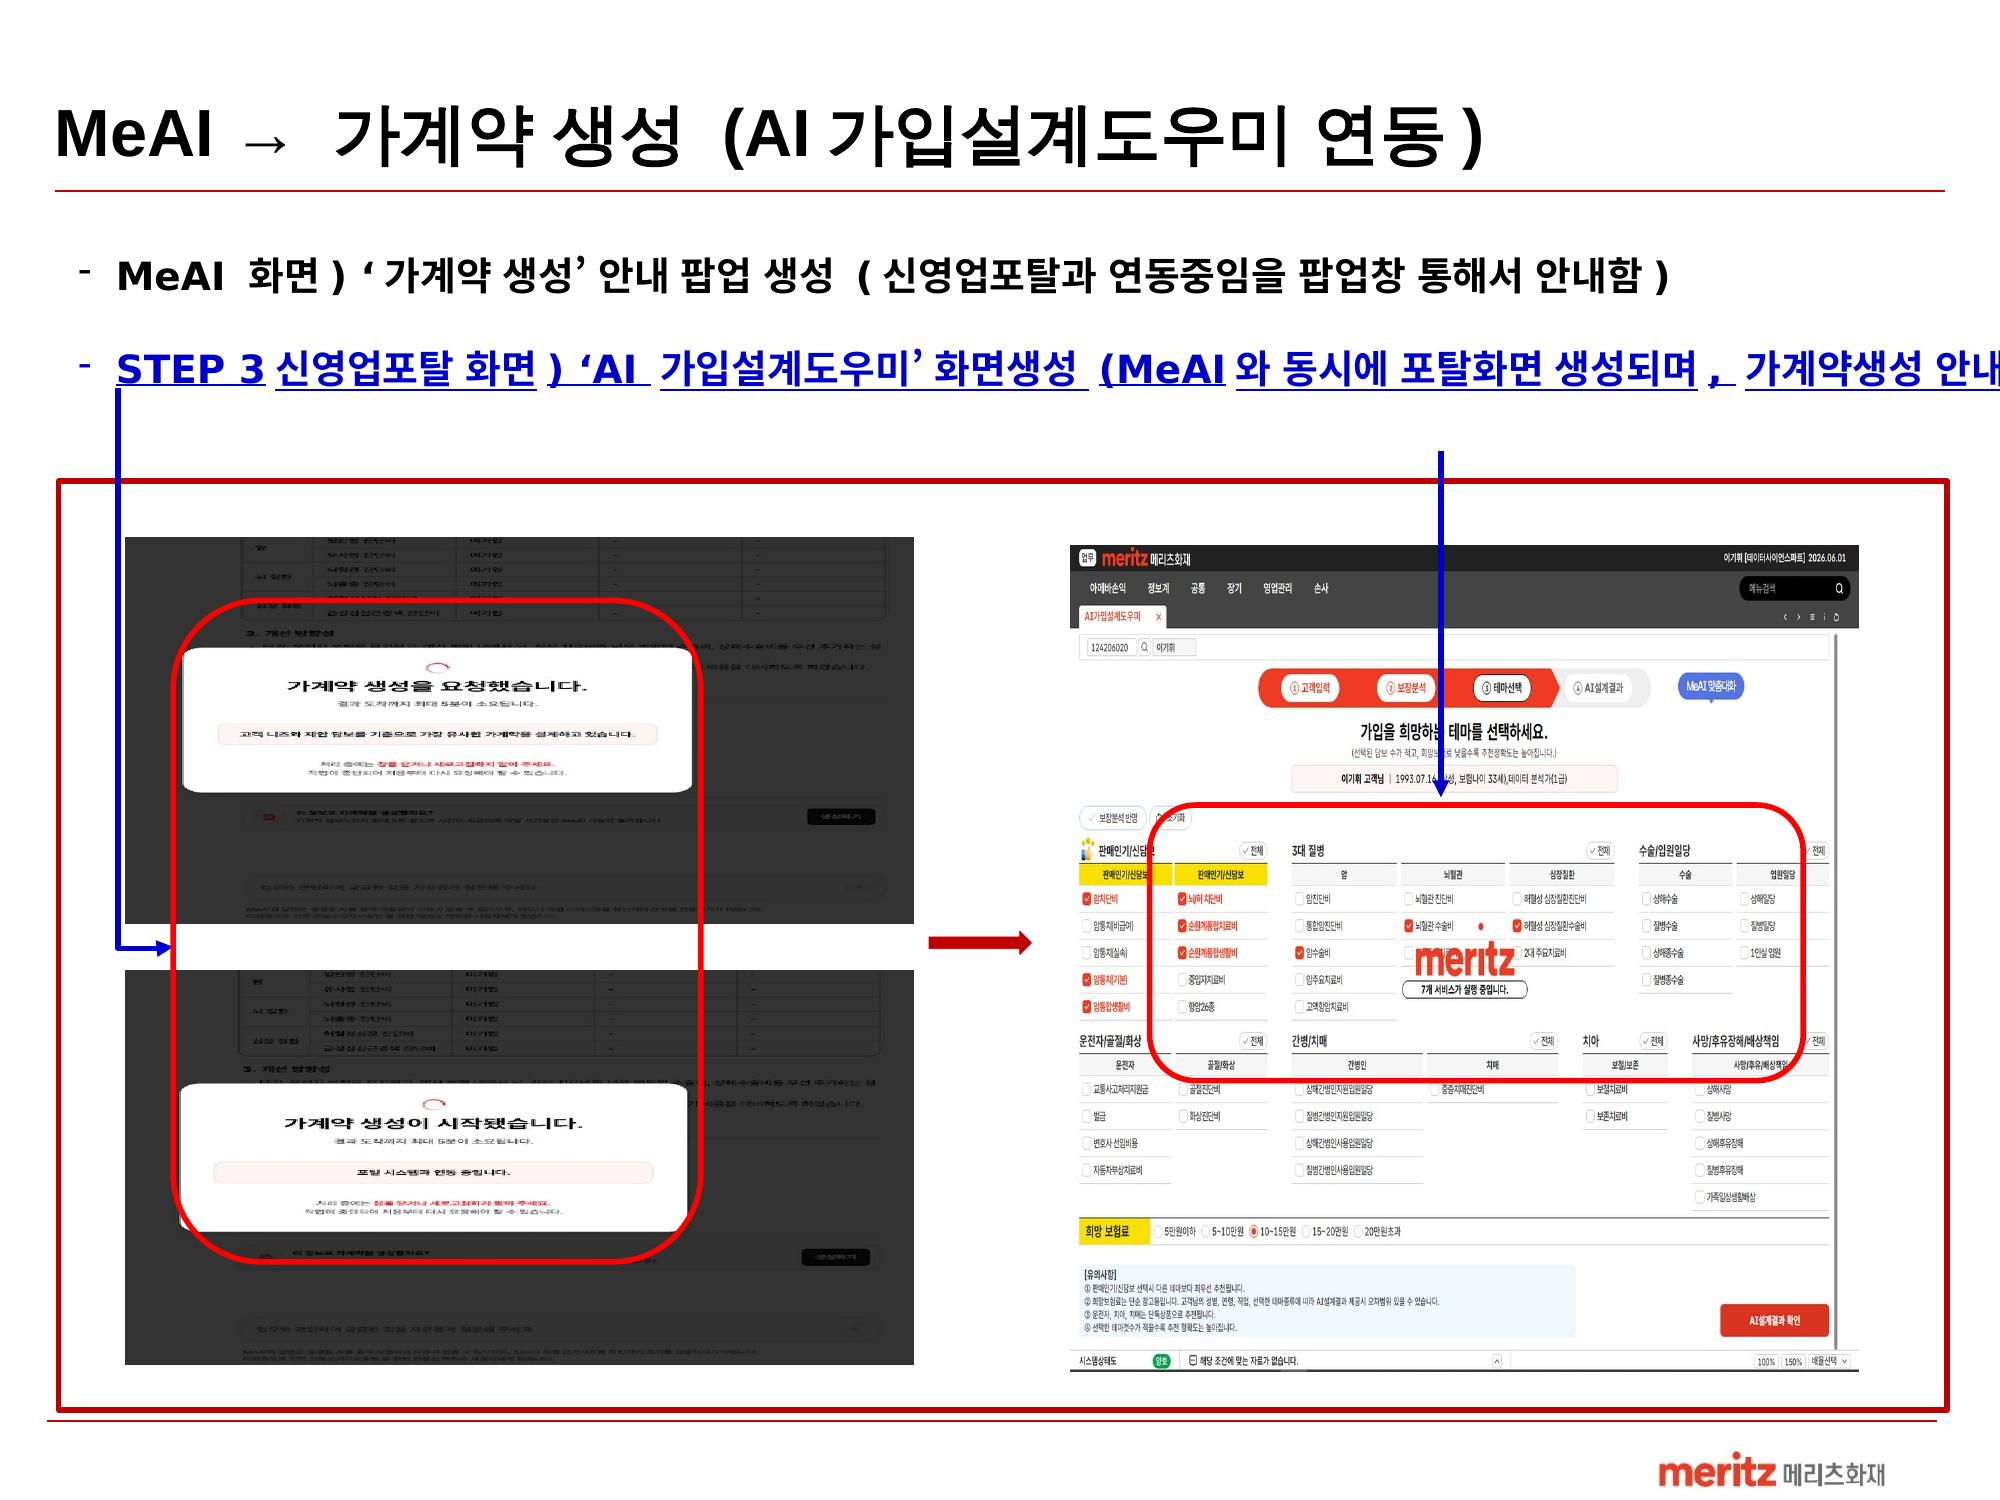
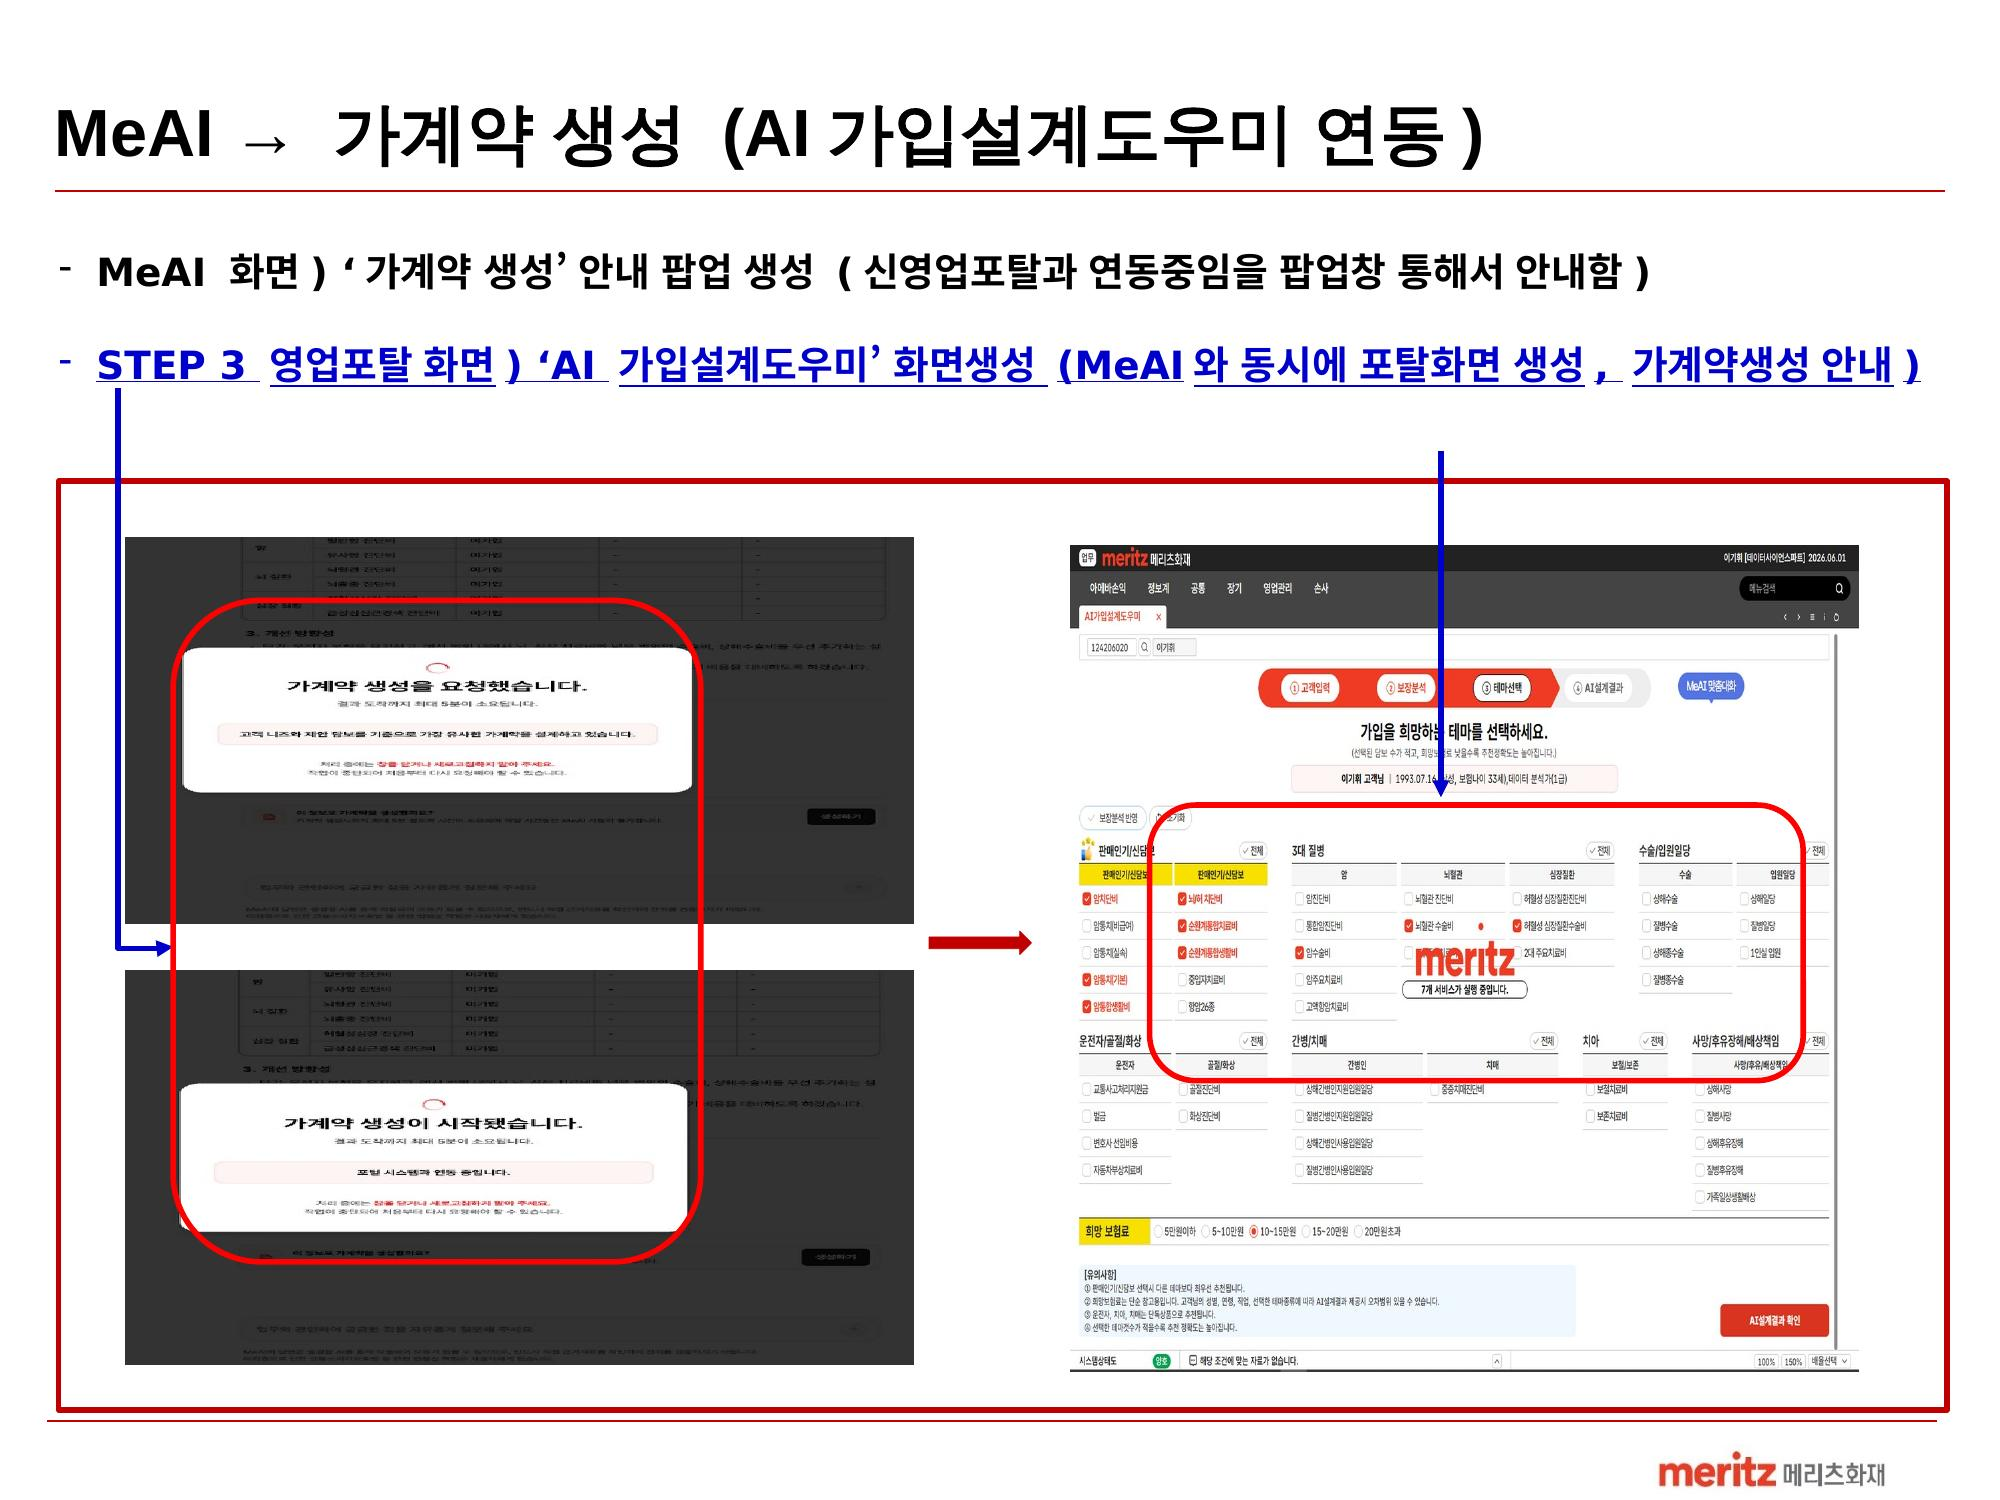
Add files via upload

Changed region(s): [[0.031, 0.1533, 1.0, 0.276]]

diff --git a/index.html b/index.html
@@ -13,7 +13,6 @@
       min-height: 100vh;
     }
 
-    /* ── HEADER ── */
     .header {
       background: #C8001E;
       padding: 20px 24px 18px;
@@ -54,7 +53,6 @@
       white-space: nowrap;
     }
 
-    /* ── HERO ── */
     .hero {
       background: linear-gradient(160deg, #b0001a 0%, #E8001D 55%, #ff4d6d 100%);
       color: white;
@@ -90,7 +88,6 @@
       border-radius: 20px;
     }
 
-    /* ── SLIDES ── */
     .slides-wrapper {
       max-width: 1000px;
       margin: 0 auto;
@@ -155,7 +152,6 @@
     }
     .slide-img:hover { opacity: 0.95; }
 
-    /* ── LIGHTBOX ── */
     .lightbox {
       display: none;
       position: fixed;
@@ -186,7 +182,6 @@
     }
     .lightbox-close:hover { opacity: 1; }
 
-    /* ── FOOTER ── */
     .footer {
       background: #1a1a1a;
       color: #888;
@@ -200,7 +195,6 @@
 </head>
 <body>
 
-  <!-- Header -->
   <div class="header">
     <span class="header-logo">meritz</span>
     <div class="header-divider"></div>
@@ -208,7 +202,6 @@
     <span class="header-badge">신규기능 안내</span>
   </div>
 
-  <!-- Hero -->
   <div class="hero">
     <h1>MeAI → 가계약 생성<br>AI가입설계도우미 연동</h1>
     <p>MeAI에서 가계약을 직접 생성하고<br>신영업포탈 AI가입설계도우미와 연동되는 프로세스를 안내합니다.</p>
@@ -220,7 +213,6 @@
     </div>
   </div>
 
-  <!-- Slides -->
   <div class="slides-wrapper">
 
     <div class="slide-card">
@@ -277,13 +269,11 @@
 
   </div>
 
-  <!-- Lightbox -->
   <div class="lightbox" id="lightbox" onclick="closeLightbox()">
     <span class="lightbox-close" onclick="closeLightbox()">×</span>
     <img id="lightbox-img" src="" alt="확대 보기">
   </div>
 
-  <!-- Footer -->
   <div class="footer">
     <strong>meritz</strong> 메리츠화재 · MeAI 서비스 공지<br>
     문의사항은 담당 부서로 연락해 주세요.
